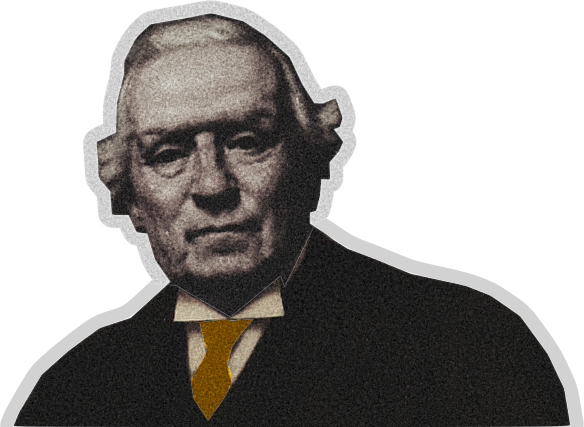
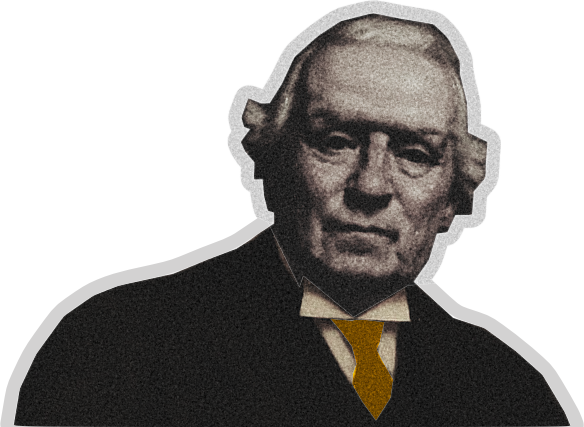
pms

diff --git a/src/App.svelte b/src/App.svelte
@@ -1,8 +1,10 @@
 <script>
+  import { onMount } from "svelte";
   import { pms, parties } from "./data.js";
   const [pm1, pm2, pm3] = pms;
   let y;
   let height;
+  let currentPM = 0;
   $: animations = {
     cover: {
       startFade: (height / 4) * 0
@@ -22,6 +24,45 @@
       stop: 1100
     }
   };
+  onMount(() => {
+    var wasAbove = false;
+    let observerDownwards = new IntersectionObserver(
+      (entries, observer) => {
+        entries.forEach(entry => {
+          const isAbove = entry.boundingClientRect.y < entry.rootBounds.y;
+          if (entry.isIntersecting) {
+            console.log(wasAbove, entry.target.getAttribute("i"));
+            currentPM = Math.max(0, +entry.target.getAttribute("i"));
+            if (!wasAbove) {
+              currentPM = Math.max(0, +entry.target.getAttribute("i"));
+            }
+          }
+          wasAbove = isAbove;
+        });
+      },
+      { rootMargin: "0px 0px -66%", threshold: 0 }
+    );
+    // let observerUpward = new IntersectionObserver(
+    //   (entries, observer) => {
+    //     entries.forEach(entry => {
+    //       const isAbove = entry.boundingClientRect.y < entry.rootBounds.y;
+    //       if (entry.isIntersecting) {
+    //         if (wasAbove) {
+    //           currentPM = Math.max(0, +entry.target.getAttribute("i"));
+    //         }
+    //       }
+    //       wasAbove = isAbove;
+    //     });
+    //   },
+    //   { rootMargin: "33% 0px 66% 0px", threshold: 0.33 }
+    // );
+    document.querySelectorAll(".pm .trigger").forEach(pm => {
+      //   observerUpward.observe(pm);
+      observerDownwards.observe(pm);
+    });
+  });
+
+  //   let observer = new IntersectionObserver(callback, options);
 
   const setpmsBottom = () => {
     const { up1, pause, up2, stop } = animations.pms;
@@ -53,10 +94,15 @@
         ? endPoint
         : startPoint;
     const rounded = Math.round(pmBottom);
-    console.log(rounded);
     return rounded;
   };
   $: pmsBottom = setpmsBottom(y, height);
+
+  //   const setMajorityWidth = () => {
+
+  // 	  pms[currentPM]
+  //   };
+  //   $: majorityWidth = setMajorityWidth(y);
 </script>
 
 <style>
@@ -315,9 +361,9 @@
               <div>Dictatorship</div>
             </h1>
             <p>
-              Because a government elected with a big enough
-              <strong>majority</strong>
-              can essentially do what it wants.
+              Because a government elected with a big enough majority can
+              <strong>essentially do what it wants</strong>
+              .
               <span class="citation">— Lord Hailsham</span>
             </p>
           </div>
@@ -336,17 +382,19 @@
           <img
             alt="pm1"
             class={`pm1 ${y > animations.pms.pause ? 'left' : ''}`}
-            src={`/pms/${pm1.image}`} />
+            src={`/pms/${pms[currentPM].image}`} />
           <img
             alt="pm3"
             class={`pm3 ${y > animations.pm3.down ? 'bounceOutDown' : 'bounceInUp'} animated`}
             src={`/pms/${pm3.image}`} />
         </div>
-        <div class={`majority`} style={`background: ${parties[pm1.party]}`}>
+        <div
+          class={`majority`}
+          style={`background: ${parties[pms[currentPM].party]}`}>
           <span
             class="majority-text"
             style={`transform: translateY(${y < animations.pms.pause ? 100 : Math.max(0, 100 - (y - animations.pms.pause))}px)`}>
-            {pm1.nickname}
+            {pms[currentPM].nickname}
           </span>
         </div>
         <span class="scroll-down" style="opacity: {1 - Math.max(0, y / 80)}">
@@ -355,13 +403,18 @@
       </div>
     </div>
     <section class="history">
-      {#each pms.slice(1) as pm}
-        <div class="mini-pm-container">
-          <img class="mini-pm" src={`/pms/${pm.image}`} />
-        </div>
-        <div class="mini-pm-name">{pm.nickname}</div>
-        <div class="mini-pm-date">
-          <span>{pm.date.slice(0, 4)}</span>
+      <div class="pm" i={0}>
+        <div class="trigger" />
+      </div>
+      {#each pms.slice(1) as pm, i}
+        <div class="pm" i={i + 1}>
+          <div class="mini-pm-container">
+            <img class="trigger mini-pm" i={i + 1} src={`/pms/${pm.image}`} />
+          </div>
+          <div class="mini-pm-name">{pm.nickname}</div>
+          <div class="mini-pm-date">
+            <span>{pm.date.slice(0, 4)}</span>
+          </div>
         </div>
       {/each}
     </section>

diff --git a/public/index.html b/public/index.html
@@ -9,7 +9,6 @@
     <link rel="icon" type="image/png" href="/favicon.png" />
     <link rel="stylesheet" href="/global.css" />
     <link rel="stylesheet" href="/build/bundle.css" />
-    <link rel="stylesheet" href="animate.min.css" />
     <script defer src="/build/bundle.js"></script>
     <link
       rel="stylesheet"
